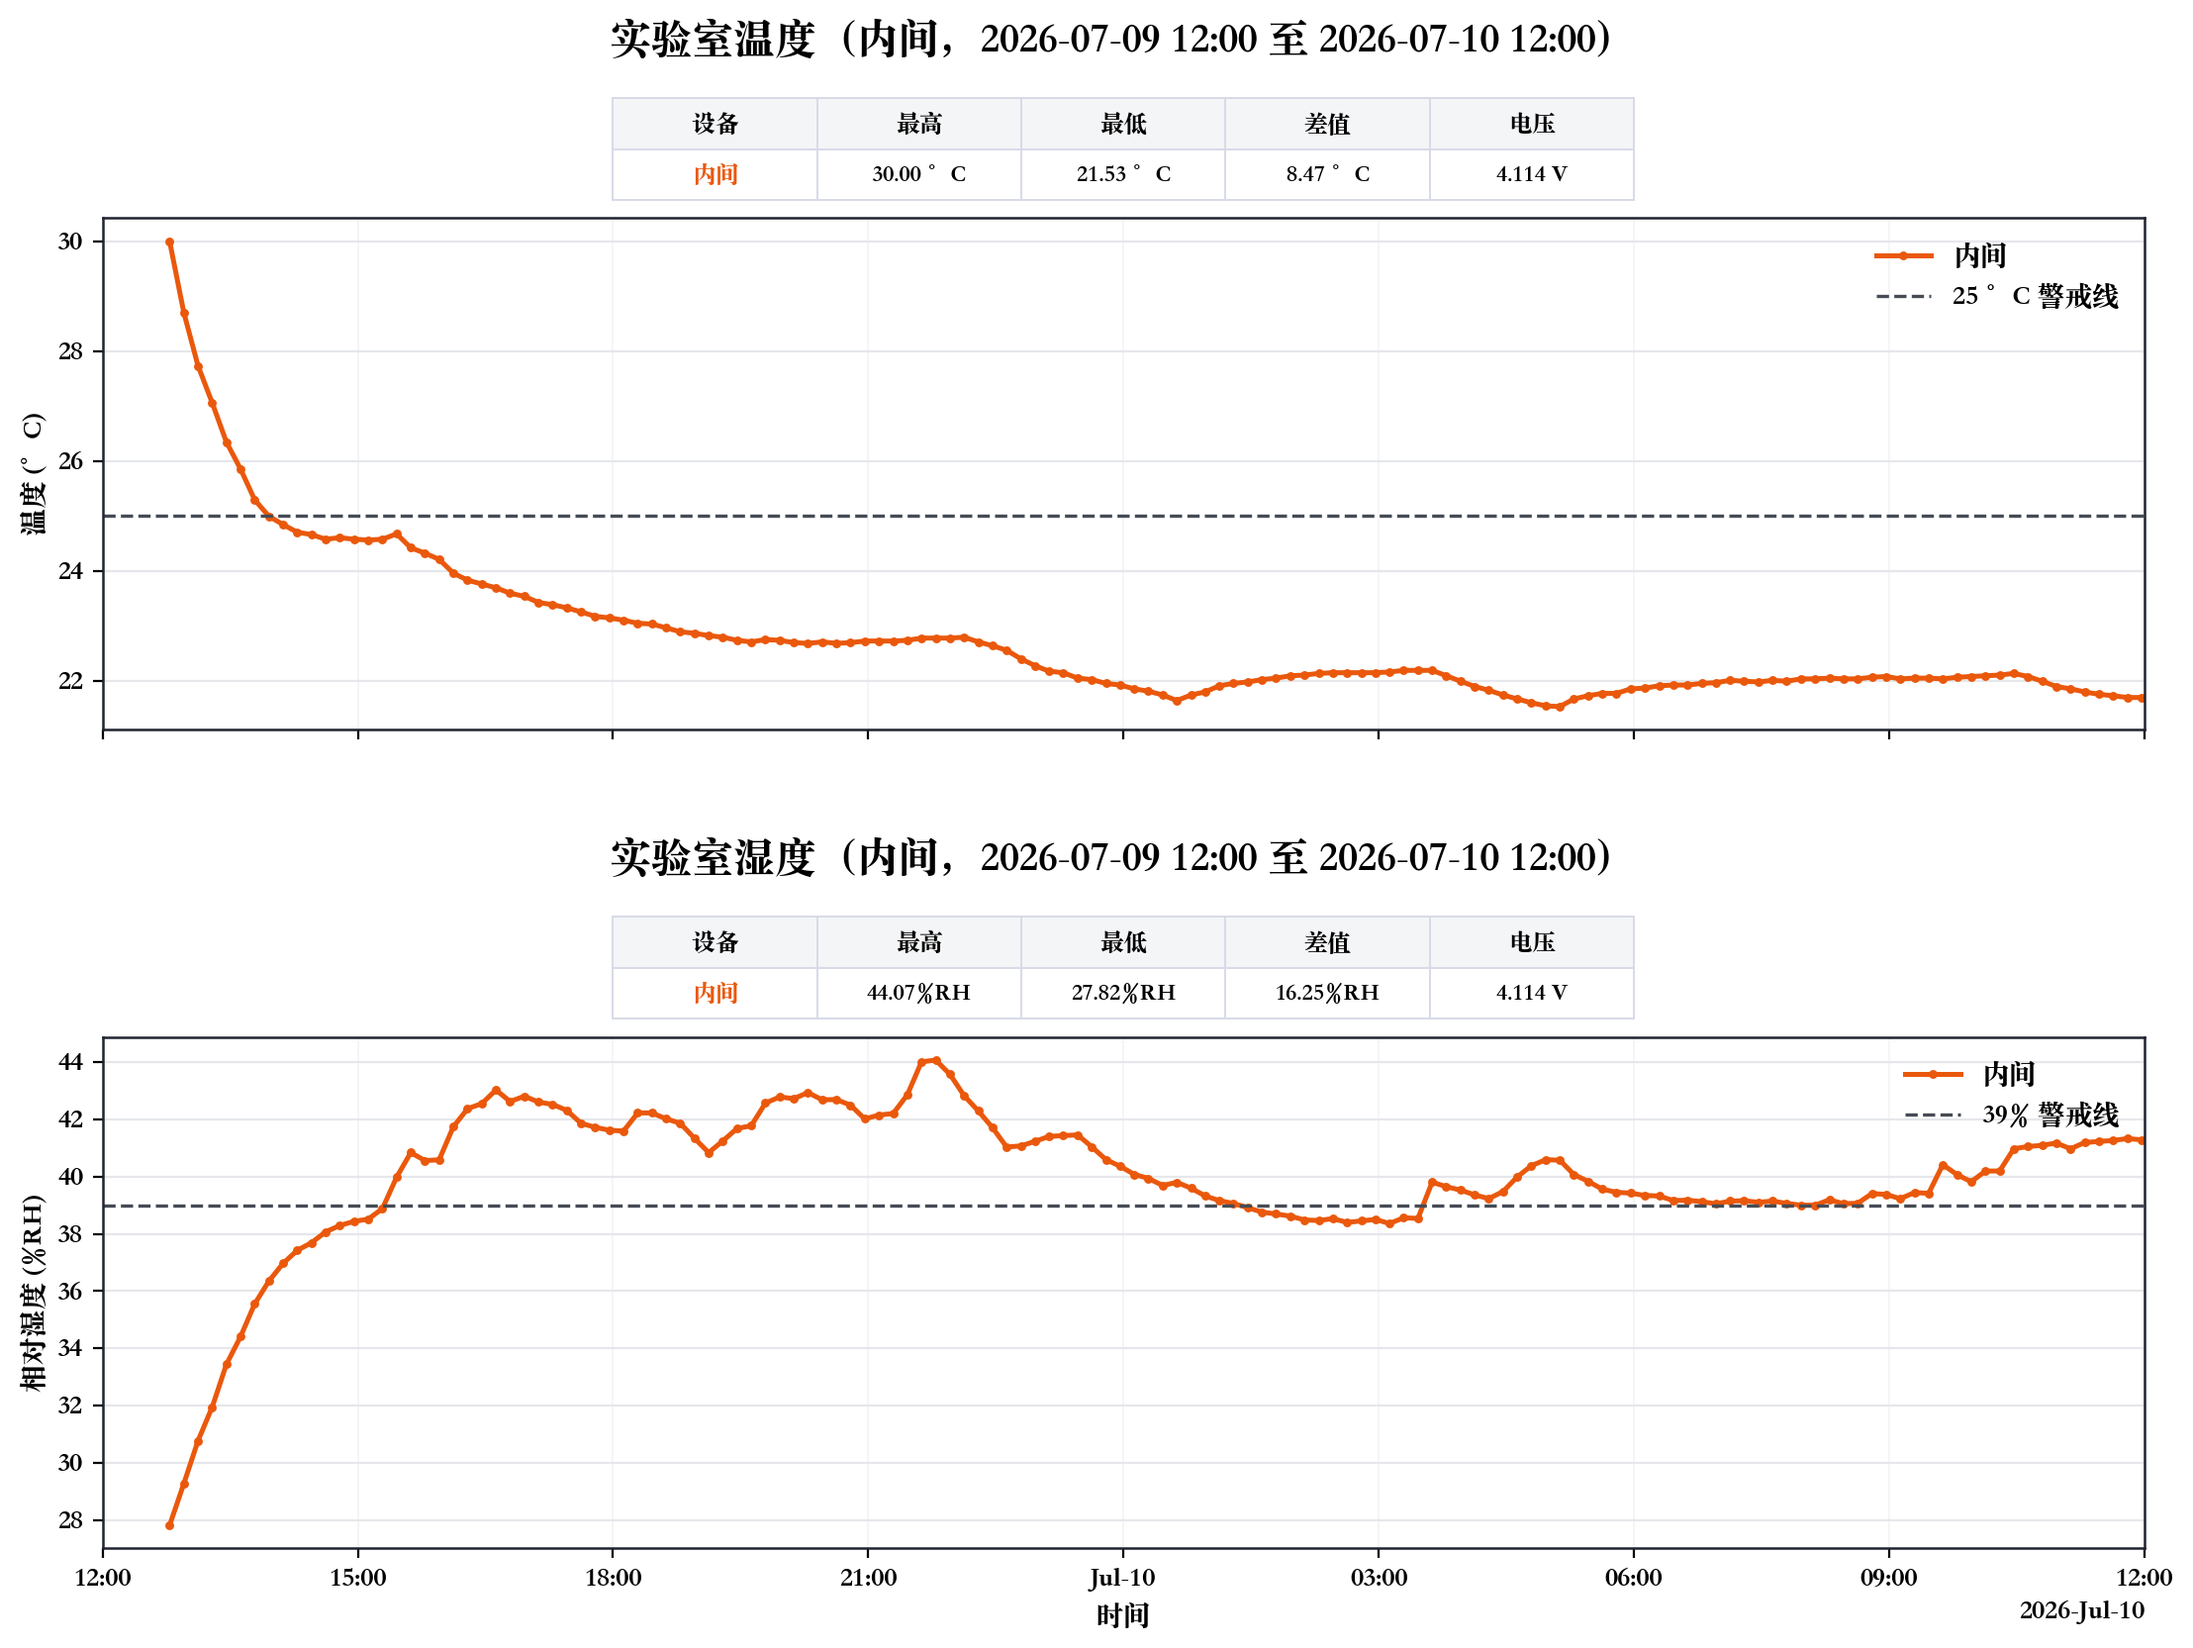
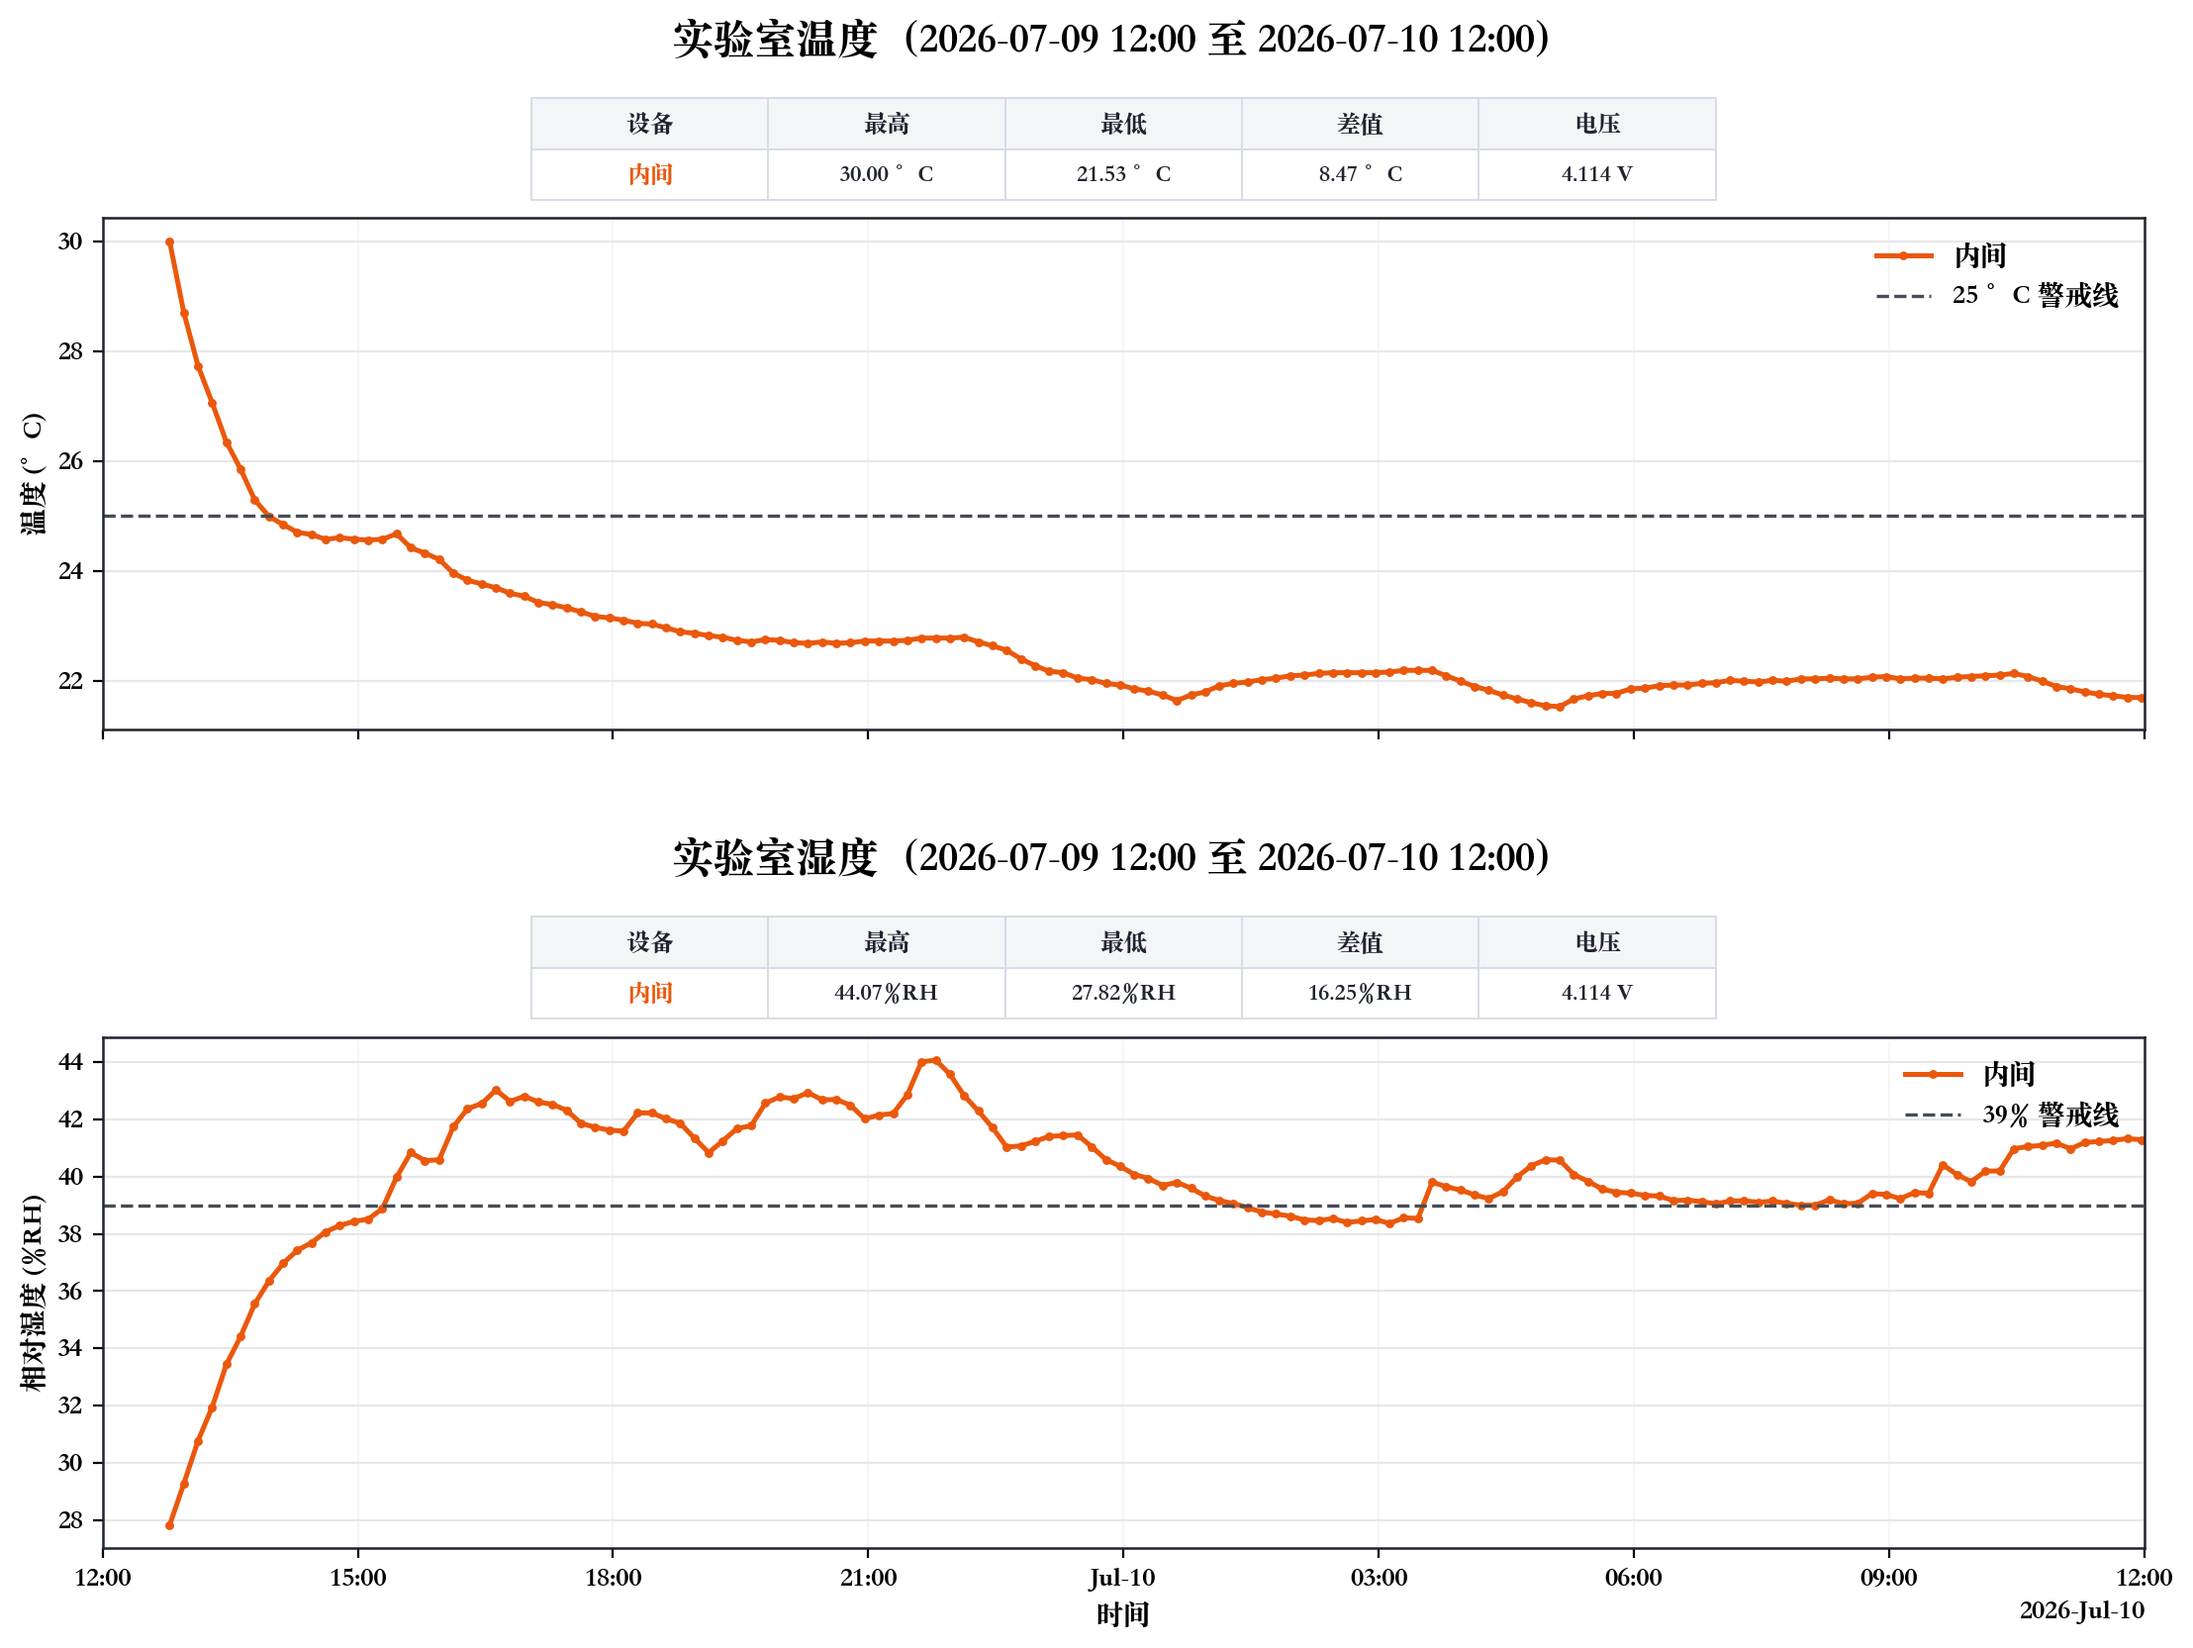
Improve CyberLab release reproducibility

diff --git a/scripts/visualize_temperature_humidity.py b/scripts/visualize_temperature_humidity.py
@@ -16,6 +16,19 @@ ROOT = Path(__file__).resolve().parents[1]
 RAW_DIR = ROOT / "data" / "raw"
 FIGURE_DIR = ROOT / "figures"
 TIMEZONE = ZoneInfo("Asia/Shanghai")
+SENSOR_CONFIGS = (
+    {
+        "name": "106-设备区",
+        "label": "外间",
+        "color": "#2563EB",
+    },
+    {
+        "name": "106-testing 5",
+        "label": "内间",
+        "color": "#EA580C",
+    },
+)
+DEVICE_NAMES = tuple(sensor["name"] for sensor in SENSOR_CONFIGS)
 
 
 def default_window() -> tuple[datetime, datetime]:
@@ -37,18 +50,18 @@ def window_slug(start: datetime, end: datetime) -> str:
     return f"{start:%Y-%m-%d-%H-%M-%S}_to_{end:%Y-%m-%d-%H-%M-%S}"
 
 
-def build_sensors(slug: str) -> list[dict[str, object]]:
+def build_sensors(
+    slug: str, device_names: list[str] | None = None
+) -> list[dict[str, object]]:
+    selected_devices = set(device_names or DEVICE_NAMES)
     return [
         {
-            "csv": RAW_DIR / f"106-设备区_raw_{slug}.csv",
-            "label": "外间",
-            "color": "#2563EB",
-        },
-        {
-            "csv": RAW_DIR / f"106-testing 5_raw_{slug}.csv",
-            "label": "内间",
-            "color": "#EA580C",
-        },
+            "csv": RAW_DIR / f"{sensor['name']}_raw_{slug}.csv",
+            "label": sensor["label"],
+            "color": sensor["color"],
+        }
+        for sensor in SENSOR_CONFIGS
+        if sensor["name"] in selected_devices
     ]
 
 
@@ -100,6 +113,8 @@ def read_metric(csv_path: Path, metric_prefix: str) -> tuple[list[datetime], lis
             if not created_at or not metric_value:
                 continue
             local_time = datetime.fromisoformat(created_at).replace(tzinfo=None)
+            if not WINDOW_START <= local_time <= WINDOW_END:
+                continue
             points.append((local_time, float(metric_value)))
 
     points.sort(key=lambda item: item[0])
@@ -120,6 +135,8 @@ def read_latest_voltage(csv_path: Path) -> float | None:
             if not created_at or not voltage_value:
                 continue
             local_time = datetime.fromisoformat(created_at).replace(tzinfo=None)
+            if not WINDOW_START <= local_time <= WINDOW_END:
+                continue
             points.append((local_time, float(voltage_value)))
 
     if not points:
@@ -266,24 +283,37 @@ def parse_args() -> object:
     parser = ArgumentParser(description="Plot CyberLab temperature and humidity data.")
     parser.add_argument("--start", help="窗口开始时间，例如 2026-07-08 12:00:00")
     parser.add_argument("--end", help="窗口结束时间，例如 2026-07-09 12:00:00")
+    parser.add_argument(
+        "--device",
+        action="append",
+        choices=DEVICE_NAMES,
+        help="仅绘制指定设备，可重复传入；默认绘制两台设备",
+    )
     return parser.parse_args()
 
 
-def set_time_window(start: datetime, end: datetime) -> None:
+def set_time_window(
+    start: datetime, end: datetime, device_names: list[str] | None = None
+) -> None:
     global WINDOW_START, WINDOW_END, TIME_WINDOW, TIME_WINDOW_SLUG, SENSORS
     WINDOW_START = start
     WINDOW_END = end
     TIME_WINDOW = f"{WINDOW_START:%Y-%m-%d %H:%M} 至 {WINDOW_END:%Y-%m-%d %H:%M}"
     TIME_WINDOW_SLUG = window_slug(WINDOW_START, WINDOW_END)
-    SENSORS = build_sensors(TIME_WINDOW_SLUG)
+    SENSORS = build_sensors(TIME_WINDOW_SLUG, device_names)
 
 
 def main() -> None:
     args = parse_args()
+    start = WINDOW_START
+    end = WINDOW_END
     if args.start or args.end:
         if not args.start or not args.end:
             raise SystemExit("--start 和 --end 必须同时提供")
-        set_time_window(parse_local_datetime(args.start), parse_local_datetime(args.end))
+        start = parse_local_datetime(args.start)
+        end = parse_local_datetime(args.end)
+
+    set_time_window(start, end, args.device)
 
     configure_matplotlib()
     FIGURE_DIR.mkdir(parents=True, exist_ok=True)

diff --git a/README.md b/README.md
@@ -1,49 +1,87 @@
 # CyberLab LabStat
 
-106 实验室温湿度监测数据、图表和状态报告归档。
+106 实验室温湿度监测数据、图表和状态报告归档。默认统计窗口为 `Asia/Shanghai` 时区下前一日 `12:00:00` 至当日 `12:00:00`。
 
-## 内容
+## 最新发布
 
-- `data/raw/`：UbiBot 原始 CSV 导出数据
-  - `106-设备区`：图中标记为 `外间`
-  - `106-testing 5`：图中标记为 `内间`
+- 时间窗口：`2026-07-09 12:00` 至 `2026-07-10 12:00`
+- 发布类型：临时单设备发布，不代表双设备完整状态
+- 设备覆盖：`106-testing 5`（图中标记为 `内间`）
+- 数据范围：`2026-07-09 12:47:20` 至 `2026-07-10 11:58:27`
+- 状态：`不正常`
+
+![2026-07-09 至 2026-07-10 温湿度图](figures/temperature_humidity_2026-07-09-12-00-00_to_2026-07-10-12-00-00.png)
+
+> 实验室温湿度监测：不正常。2026-07-09 12:00 至 2026-07-10 12:00 期间，内间温度在 2026-07-09 12:47 达到 30.00 °C，超过 25 °C 警戒线；内间湿度在 2026-07-09 21:47 达到 44.07 %RH，超过 39 %RH 警戒线。
+
+[查看原始 CSV](<data/raw/106-testing 5_raw_2026-07-09-12-00-00_to_2026-07-10-12-00-00.csv>) | [查看状态报告](reports/lab_status_2026-07-09-12-00-00_to_2026-07-10-12-00-00.md)
+
+## 最近完整双设备发布
+
+- 时间窗口：`2026-07-08 12:00` 至 `2026-07-09 12:00`
+- 设备覆盖：`106-设备区`（外间）、`106-testing 5`（内间）
+- 状态：`不正常`
+
+[查看温湿度图](figures/temperature_humidity_2026-07-08-12-00-00_to_2026-07-09-12-00-00.png) | [查看状态报告](reports/lab_status_2026-07-08-12-00-00_to_2026-07-09-12-00-00.md)
+
+## 历史归档
+
+| 时间窗口 | 设备覆盖 | 发布类型 | 状态 | 图表 | 报告 |
+| --- | --- | --- | --- | --- | --- |
+| `2026-07-09 12:00` 至 `2026-07-10 12:00` | 内间 | 临时单设备 | 不正常 | [PNG](figures/temperature_humidity_2026-07-09-12-00-00_to_2026-07-10-12-00-00.png) | [Markdown](reports/lab_status_2026-07-09-12-00-00_to_2026-07-10-12-00-00.md) |
+| `2026-07-08 12:00` 至 `2026-07-09 12:00` | 外间、内间 | 完整双设备 | 不正常 | [PNG](figures/temperature_humidity_2026-07-08-12-00-00_to_2026-07-09-12-00-00.png) | [Markdown](reports/lab_status_2026-07-08-12-00-00_to_2026-07-09-12-00-00.md) |
+
+## 仓库内容
+
+- `data/raw/`：限定到对应发布窗口的 UbiBot CSV 数据
 - `figures/`：温度和湿度合并图
 - `reports/`：Markdown 状态结论和分析报告
 - `scripts/visualize_temperature_humidity.py`：温湿度可视化脚本
 
-## 当前数据窗口
+设备名称对应关系：
 
-- 时间范围：`2026-07-08 12:00` 至 `2026-07-09 12:00`
-- 时区：`Asia/Shanghai`
-- 温度警戒线：`25 °C`
-- 湿度警戒线：`39%RH`
+| UbiBot 设备名 | 图表名称 |
+| --- | --- |
+| `106-设备区` | 外间 |
+| `106-testing 5` | 内间 |
 
-![Temperature and humidity overview](figures/temperature_humidity_2026-07-08-12-00-00_to_2026-07-09-12-00-00.png)
+## 判定规则与数据口径
 
-当前一句话结论：
-
-> 实验室温湿度监测：不正常。2026-07-08 12:00 至 2026-07-09 12:00 期间，外间温度在 2026-07-09 11:56 达到 27.50 °C，超过 25 °C 警戒线；外间湿度在 2026-07-08 20:15 达到 53.22 %RH，超过 39 %RH 警戒线；内间温度在 2026-07-09 11:57 达到 30.92 °C，超过 25 °C 警戒线。
+- 时区固定为 `Asia/Shanghai`。
+- 温度上限为 `25 °C`，湿度上限为 `39 %RH`。
+- 任一已覆盖设备的任一有效温度点大于 `25 °C`，或任一有效湿度点大于 `39 %RH`，状态即为 `不正常`；等于警戒线不算超限。
+- 完整发布必须覆盖外间和内间；缺少任一设备时只能标记为临时单设备发布，不能代表双设备完整状态。
+- `data/raw/` 中的发布 CSV 只保留 `START <= created_at <= END` 的数据行，绘图脚本也会按同一窗口再次过滤。
+- CSV 使用 `created_at` 记录时间，`field1` 记录温度，`field2` 记录湿度，`field3` 在可用时记录电压。
+- 文件名使用 `{设备名}_raw_{START}_to_{END}.csv`，时间格式为 `YYYY-MM-DD-HH-MM-SS`。
 
 ## 复现图表
 
+依赖 Python 3 和 matplotlib。在仓库根目录执行：
+
 ```bash
-cd /Users/binbin/Desktop/CyberLab_LabStat
-MPLCONFIGDIR=/tmp/matplotlib scripts/visualize_temperature_humidity.py \
-  --start "2026-07-08 12:00:00" \
-  --end "2026-07-09 12:00:00"
+MPLCONFIGDIR=/tmp/matplotlib python3 \
+  scripts/visualize_temperature_humidity.py \
+  --start "2026-07-09 12:00:00" \
+  --end "2026-07-10 12:00:00" \
+  --device "106-testing 5"
 ```
 
-脚本使用本机固定 Python 路径：
+`--device` 可重复传入。省略该参数时，脚本默认读取外间和内间两台设备，适用于完整双设备发布。
 
-```text
-/Applications/Xcode.app/Contents/Developer/usr/bin/python3
+本项目自动化在当前 Mac 上使用已验证的固定解释器：
+
+```bash
+MPLCONFIGDIR=/tmp/matplotlib \
+  /Applications/Xcode.app/Contents/Developer/usr/bin/python3 \
+  scripts/visualize_temperature_humidity.py \
+  --start "2026-07-09 12:00:00" \
+  --end "2026-07-10 12:00:00" \
+  --device "106-testing 5"
 ```
-
-依赖：
-
-- Python 3
-- matplotlib
 
 ## 公开仓库说明
 
-本仓库只保存公开的数据、图表、报告和绘图脚本。自动化执行说明、账号信息、token、cookie 和本地配置文件不在本仓库中保存。
+本仓库保存公开的设备名称与 serial、实验室运行数据、图表、报告和绘图脚本。自动化执行说明、账号信息、密码、token、cookie 和本地配置文件不在本仓库中保存。
+
+本仓库当前用于公开归档，尚未单独声明代码和数据的复用许可证。
